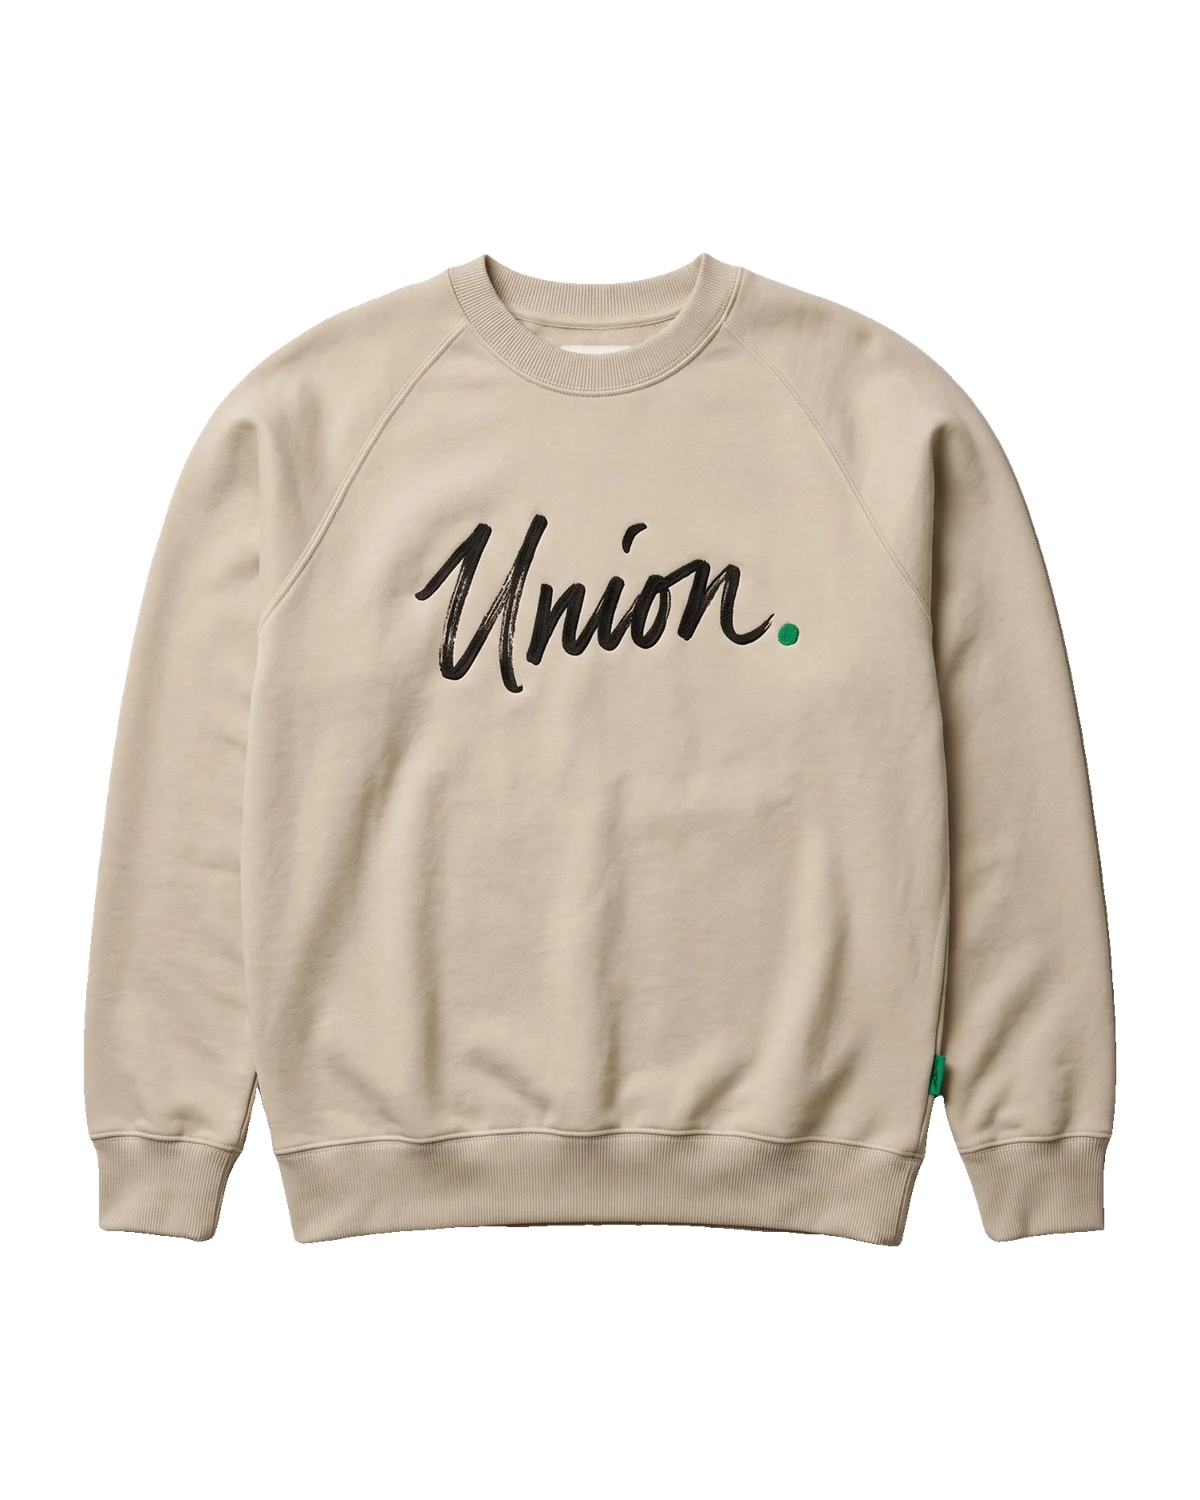
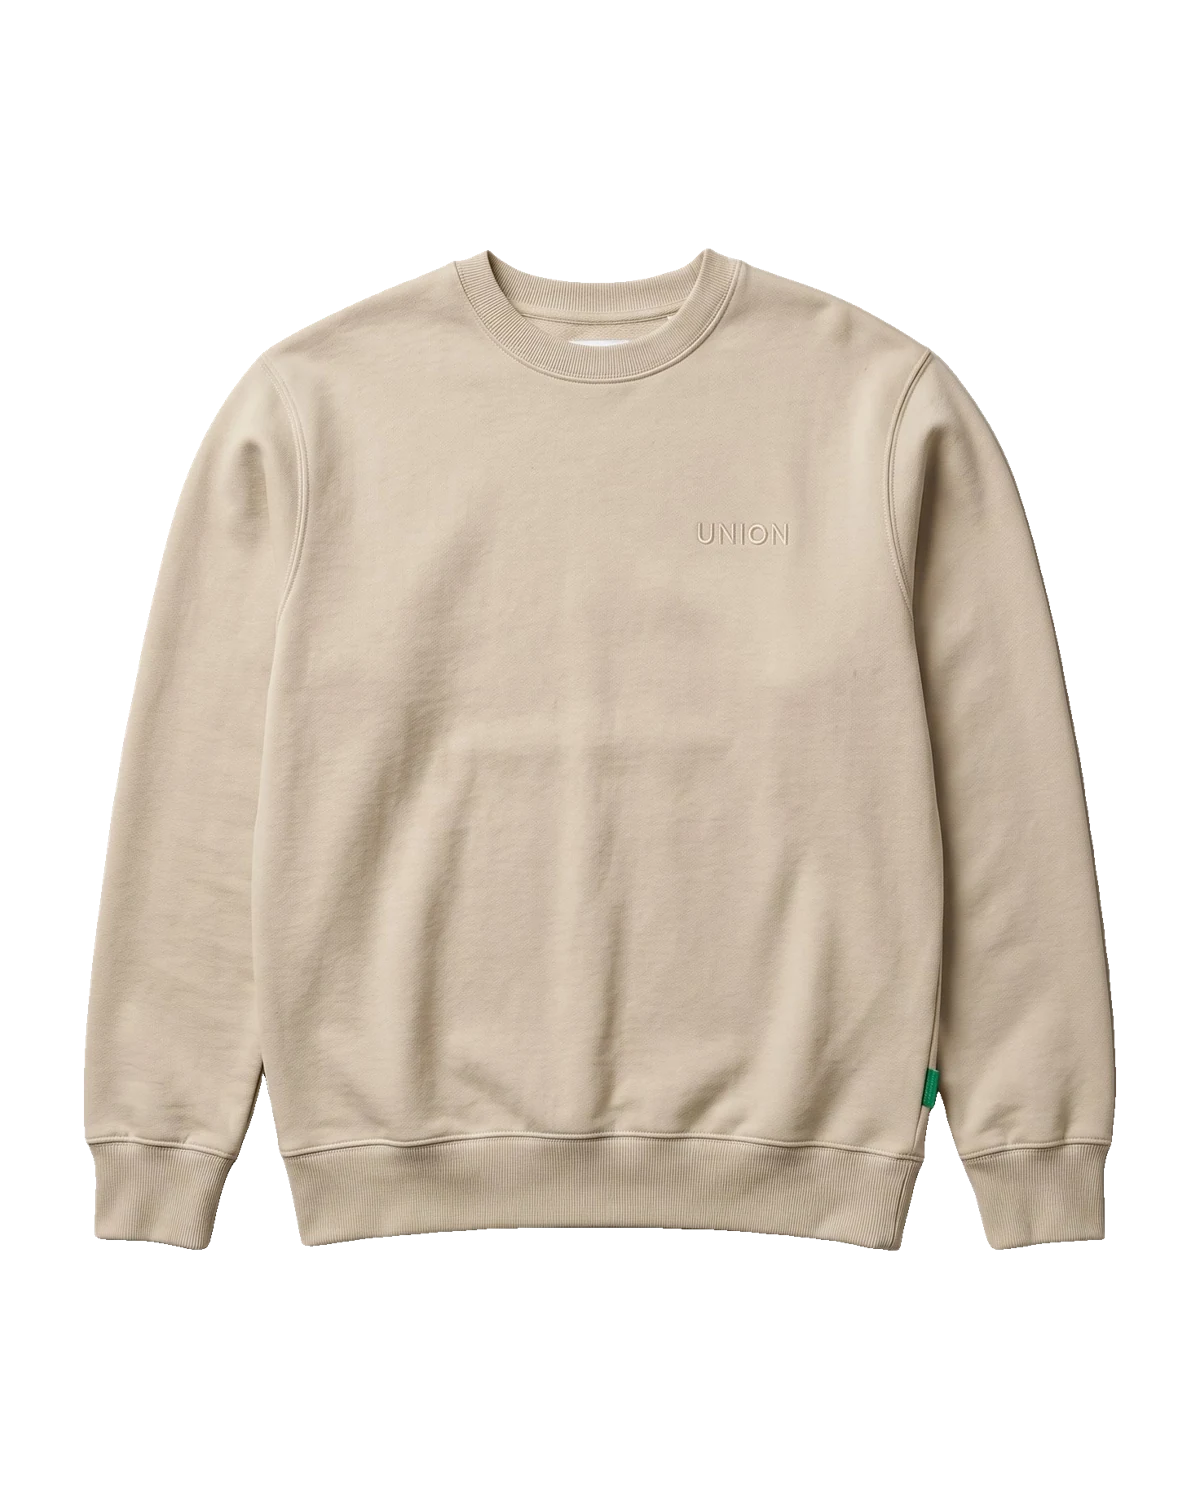
맨투맨 새 사진(얇은 시보리, 우측 상단 작은 로고) 반영, 소재 정보 맞춤
Claude-Session: https://claude.ai/code/session_01XtgAfvLokzUmBu7gCvCfmP

diff --git a/src/data.js b/src/data.js
@@ -27,7 +27,7 @@ export const products = [
   { id: 'u03', name: 'SYMBOL HOODIE', ko: '심볼 후디', cat: 'hoodie', price: 69000, print: 'blank', colors: [C.grey, C.black], tags: ['street', 'mono', 'oversize', 'essential'], scenes: ['가을', '겨울', '캠퍼스', '추위'], isNew: true, rank: 3,
     story: '기모 없는 쫀쫀한 루프백 원단이라 봄가을까지 입어요. 2겹 후드라 모양이 쉽게 무너지지 않아요.' },
   { id: 'u05', name: 'SYMBOL SWEATSHIRT', ko: '심볼 맨투맨', cat: 'crew', price: 59000, print: 'blank', colors: [C.oat, C.navy], tags: ['clean', 'mono', 'essential', 'oversize'], scenes: ['가을', '봄', '데이트', '캠퍼스'], rank: 4,
-    story: '래글런 소매라 어깨선이 부드럽게 떨어져요. 셔츠 위에 겹쳐 입기 좋아요.' },
+    story: '얇은 립과 셋인 소매로 군더더기 없이 정리한 맨투맨.' },
   { id: 'u10', name: 'WIDE SWEATPANTS', ko: '와이드 스웨트팬츠', cat: 'pants', price: 55000, print: 'none', colors: [C.grey, C.black], tags: ['clean', 'mono', 'essential', 'oversize'], scenes: ['데일리', '캠퍼스', '여행'], rank: 5,
     story: '바닥까지 떨어지는 와이드 핏. 허리 밴딩이라 하루 종일 편해요.' },
   { id: 'u12', name: 'SYMBOL CAP', ko: '심볼 볼캡', cat: 'cap', price: 35000, print: 'blank', colors: [C.black, C.stone], tags: ['street', 'essential', 'mono'], scenes: ['여행', '데일리', '더위'], rank: 6,
@@ -169,7 +169,7 @@ export const DETAILS = {
   u01: { info: [2, 1, 1, 0, 0], season: '봄 · 여름 · 가을', fabric: '면 100%', spec: ['싱글 저지 230g', '넥 립 2.5cm', '트윈 니들 밑단', '밑단 초록 탭'], size: TEE_SIZE, models: MODELS },
   u02: { info: [3, 1, 1, 0, 0], season: '봄 · 여름 · 가을', fabric: '면 100%', spec: ['싱글 저지 230g', '수성 실크스크린', '어깨 테이핑', '밑단 초록 탭'], size: { head: TEE_SIZE.head, rows: [['S', 70, 52, 57, 22], ['M', 73, 55, 60, 23], ['L', 76, 58, 63, 24], ['XL', 79, 61, 66, 25]] }, models: MODELS },
   u03: { info: [3, 2, 1, 0, 1], season: '봄 · 가을 · 겨울', fabric: '면 80% · 폴리에스터 20%', spec: ['루프백 420g, 기모 없음', '2겹 후드', '소매·밑단 2x2 립', '평면 면 끈'], size: { head: ['', '총장', '어깨', '가슴', '소매'], rows: [['S', 68, 54, 60, 58], ['M', 71, 57, 63, 59], ['L', 74, 60, 66, 60], ['XL', 77, 63, 69, 61]] }, models: MODELS },
-  u05: { info: [1, 2, 1, 0, 1], season: '봄 · 가을', fabric: '면 80% · 폴리에스터 20%', spec: ['루프백 380g', '래글런 소매', '넥 V 스티치', '밑단 초록 탭'], size: { head: ['', '총장', '가슴', '화장'], rows: [['S', 66, 56, 80], ['M', 69, 59, 82], ['L', 72, 62, 84], ['XL', 75, 65, 86]] }, models: MODELS },
+  u05: { info: [1, 2, 1, 0, 1], season: '봄 · 가을 · 겨울', fabric: '면 100%', spec: ['기모 500g', '셋인 소매', '2cm 넥 립', '밑단 초록 탭'], size: { head: ['', '총장', '가슴', '화장'], rows: [['S', 66, 56, 80], ['M', 69, 59, 82], ['L', 72, 62, 84], ['XL', 75, 65, 86]] }, models: MODELS },
   u10: { info: [3, 2, 1, 0, 1], season: '봄 · 가을 · 겨울', fabric: '면 80% · 폴리에스터 20%', spec: ['루프백 380g', '밴딩 + 내부 스트링', '옆주머니 깊이 18cm', '후디·맨투맨과 동일 원단'], size: { head: ['', '총장', '허리', '허벅지', '밑단'], rows: [['S', 100, 33, 33, 25], ['M', 103, 35, 35, 26], ['L', 106, 37, 37, 27], ['XL', 109, 39, 39, 28]] }, models: MODELS },
   u12: { info: [1, 1, 0, 0, 1], season: '사계절', fabric: '면 100%', spec: ['워싱 트윌', '언스트럭처드 6패널', '황동 버클 조절', '내부 땀받이 테이프'], size: { head: ['', '머리 둘레', '챙', '깊이'], rows: [['FREE', '56–60', 7, 12]] }, models: [['모델', '머리 둘레 57cm', 'FREE 착용']] },
 };
